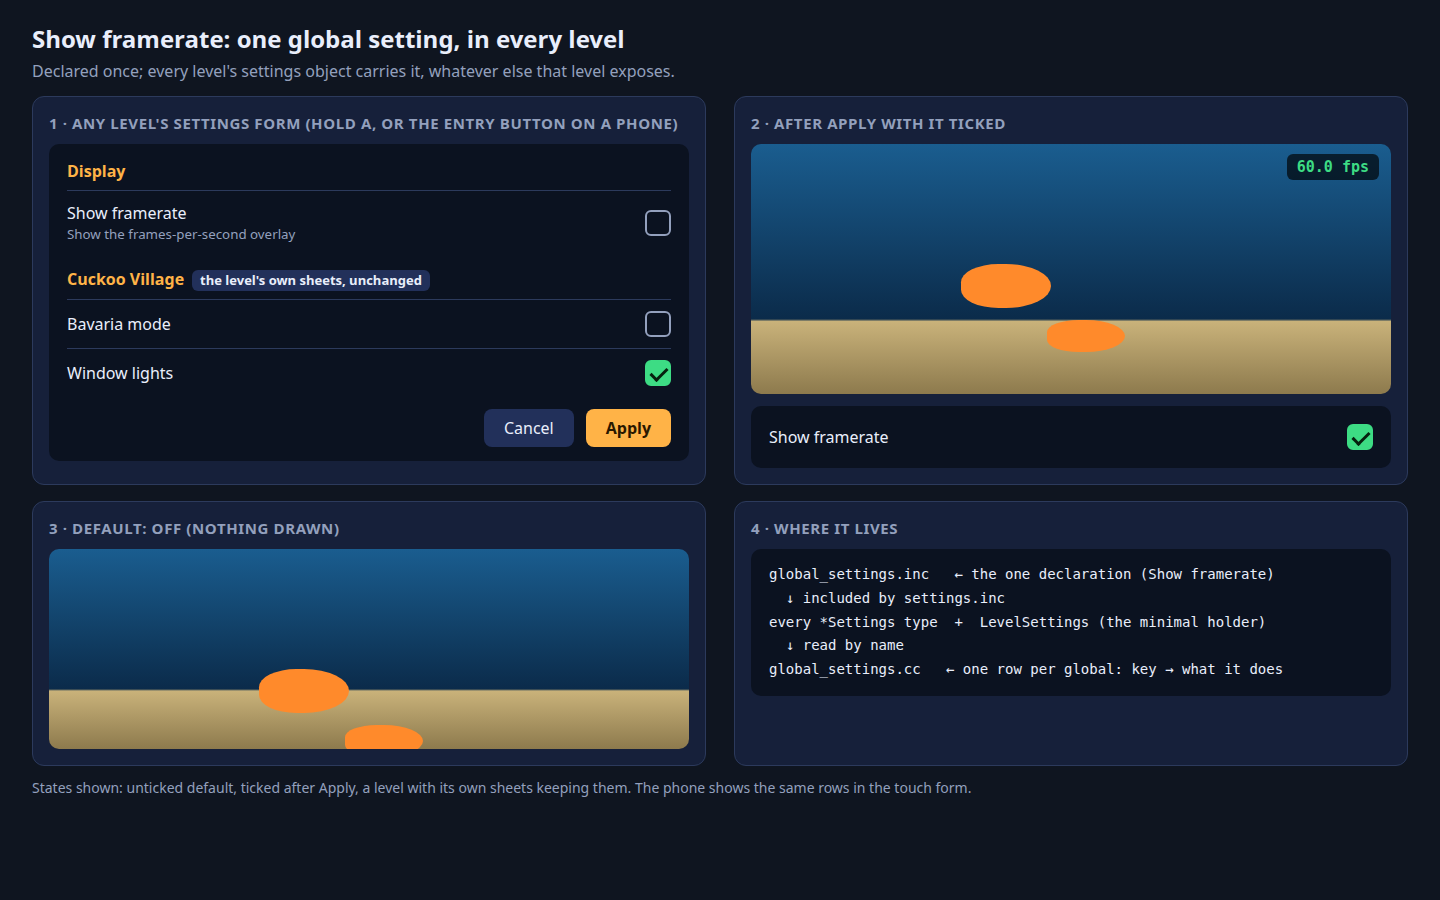
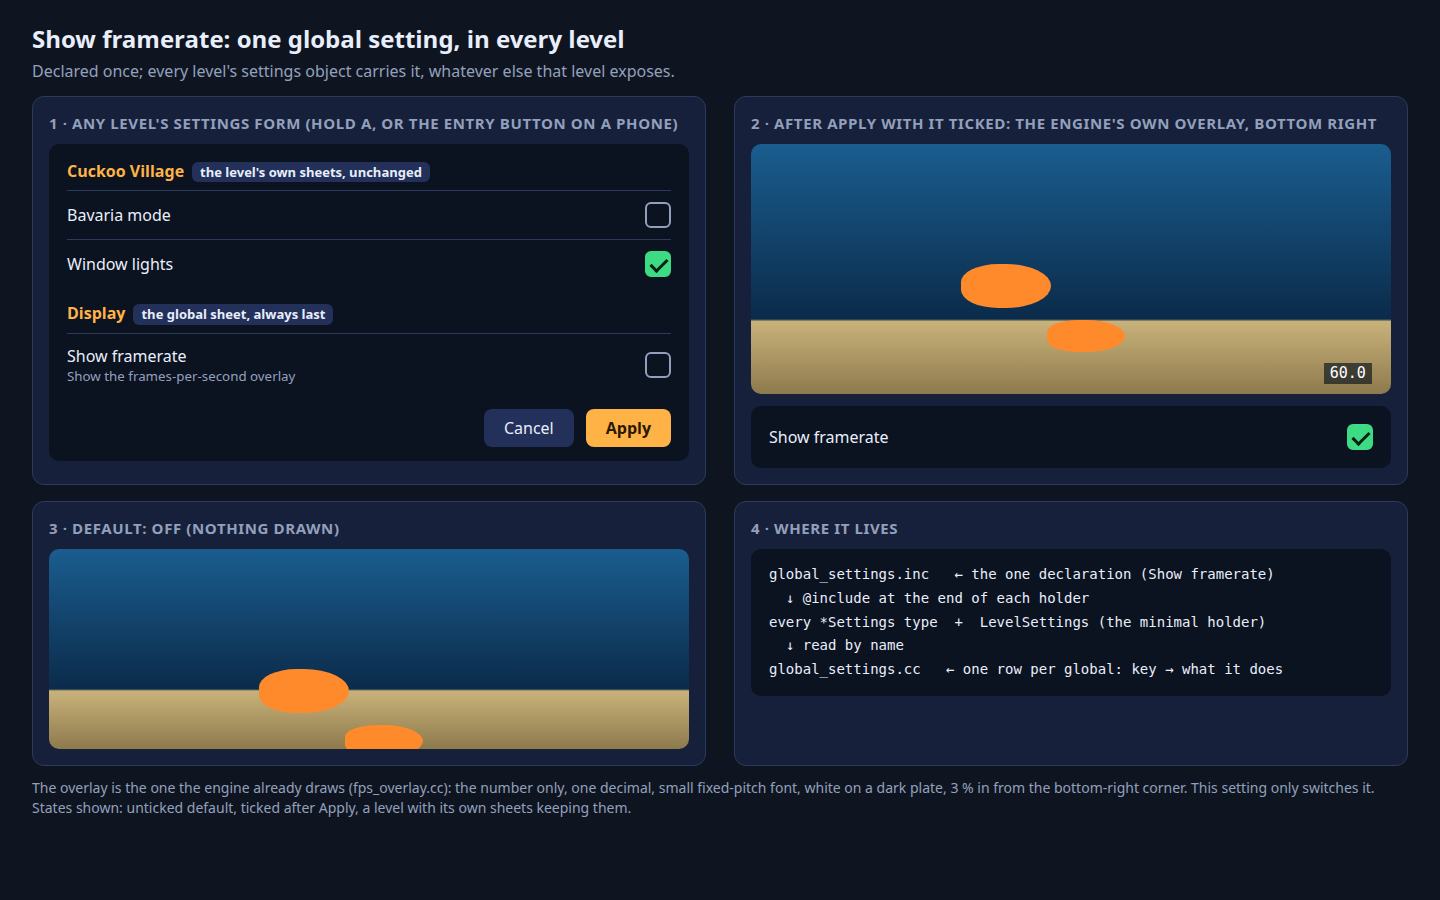
Global level settings mockup: the engine's own overlay (bottom right, number only), the global sheet last
Claude-Session: https://claude.ai/code/session_01YEenqQdpzaEWB9yHz5H9v3

diff --git a/docs/plans/2026-11-22-global-level-settings/show-framerate.html b/docs/plans/2026-11-22-global-level-settings/show-framerate.html
@@ -16,7 +16,7 @@ h1{margin:0;padding:22px 32px 4px;font-size:24px}p.sub{margin:0;padding:0 32px 1
 .btns{display:flex;gap:12px;justify-content:flex-end;margin-top:12px}.btn{padding:8px 20px;border-radius:8px;background:#22305a}.btn.p{background:var(--accent);color:#2a1800;font-weight:700}
 .tank{position:relative;height:250px;border-radius:10px;background:linear-gradient(#1a5d8f,#0b2b4a 70%,#c9b27a 71%,#8d7a4d);overflow:hidden}
 .fish{position:absolute;left:210px;top:120px;width:90px;height:44px;border-radius:50% 60% 60% 50%;background:#ff8a2b;box-shadow:80px 50px 0 -6px #ff8a2b}
-.fps{position:absolute;right:12px;top:10px;background:#000a;padding:4px 10px;border-radius:6px;font:700 15px ui-monospace,monospace;color:var(--on)}
+.fps{position:absolute;right:3%;bottom:4%;background:rgba(16,24,32,.69);padding:3px 6px;font:500 15px/1 ui-monospace,"DejaVu Sans Mono",monospace;color:#fff;letter-spacing:0;white-space:pre}
 .off .fps{display:none}
 .note{margin:12px 32px 0;color:var(--muted);font-size:14px}
 .tag{display:inline-block;background:#22305a;border-radius:6px;padding:1px 8px;margin-left:8px;font-size:13px;color:var(--fg)}
@@ -25,24 +25,24 @@ h1{margin:0;padding:22px 32px 4px;font-size:24px}p.sub{margin:0;padding:0 32px 1
 <p class="sub">Declared once; every level's settings object carries it, whatever else that level exposes.</p>
 <div class="row">
  <div class="card"><h2>1 · Any level's settings form (hold A, or the entry button on a phone)</h2>
-  <div class="form"><div class="sheet">Display</div>
-   <div class="field"><div>Show framerate<small>Show the frames-per-second overlay</small></div><span class="box"></span></div>
-   <div class="sheet" style="margin-top:14px">Cuckoo Village<span class="tag">the level's own sheets, unchanged</span></div>
+  <div class="form"><div class="sheet">Cuckoo Village<span class="tag">the level's own sheets, unchanged</span></div>
    <div class="field"><div>Bavaria mode</div><span class="box"></span></div>
    <div class="field"><div>Window lights</div><span class="box on"></span></div>
+   <div class="sheet" style="margin-top:14px">Display<span class="tag">the global sheet, always last</span></div>
+   <div class="field"><div>Show framerate<small>Show the frames-per-second overlay</small></div><span class="box"></span></div>
    <div class="btns"><span class="btn">Cancel</span><span class="btn p">Apply</span></div></div></div>
- <div class="card"><h2>2 · After Apply with it ticked</h2>
-  <div class="tank"><div class="fish"></div><div class="fps">60.0 fps</div></div>
+ <div class="card"><h2>2 · After Apply with it ticked: the engine's own overlay, bottom right</h2>
+  <div class="tank"><div class="fish"></div><div class="fps">60.0</div></div>
   <div class="form" style="margin-top:12px"><div class="field" style="border:0;padding:4px 0"><div>Show framerate</div><span class="box on"></span></div></div></div>
 </div>
 <div class="row" style="margin-top:16px">
- <div class="card off"><h2>3 · Default: off (nothing drawn)</h2><div class="tank" style="height:200px"><div class="fish"></div><div class="fps">60.0 fps</div></div></div>
+ <div class="card off"><h2>3 · Default: off (nothing drawn)</h2><div class="tank" style="height:200px"><div class="fish"></div><div class="fps">60.0</div></div></div>
  <div class="card"><h2>4 · Where it lives</h2><div class="form" style="font:14px/1.7 ui-monospace,monospace">
   global_settings.inc &nbsp;&nbsp;← the one declaration (Show framerate)<br>
-  &nbsp;&nbsp;↓ included by settings.inc<br>
+  &nbsp;&nbsp;↓ @include at the end of each holder<br>
   every *Settings type &nbsp;+&nbsp; LevelSettings (the minimal holder)<br>
   &nbsp;&nbsp;↓ read by name<br>
   global_settings.cc &nbsp;&nbsp;← one row per global: key → what it does</div></div>
 </div>
-<p class="note">States shown: unticked default, ticked after Apply, a level with its own sheets keeping them. The phone shows the same rows in the touch form.</p>
+<p class="note">The overlay is the one the engine already draws (fps_overlay.cc): the number only, one decimal, small fixed-pitch font, white on a dark plate, 3 % in from the bottom-right corner. This setting only switches it. States shown: unticked default, ticked after Apply, a level with its own sheets keeping them.</p>
 </body></html>
